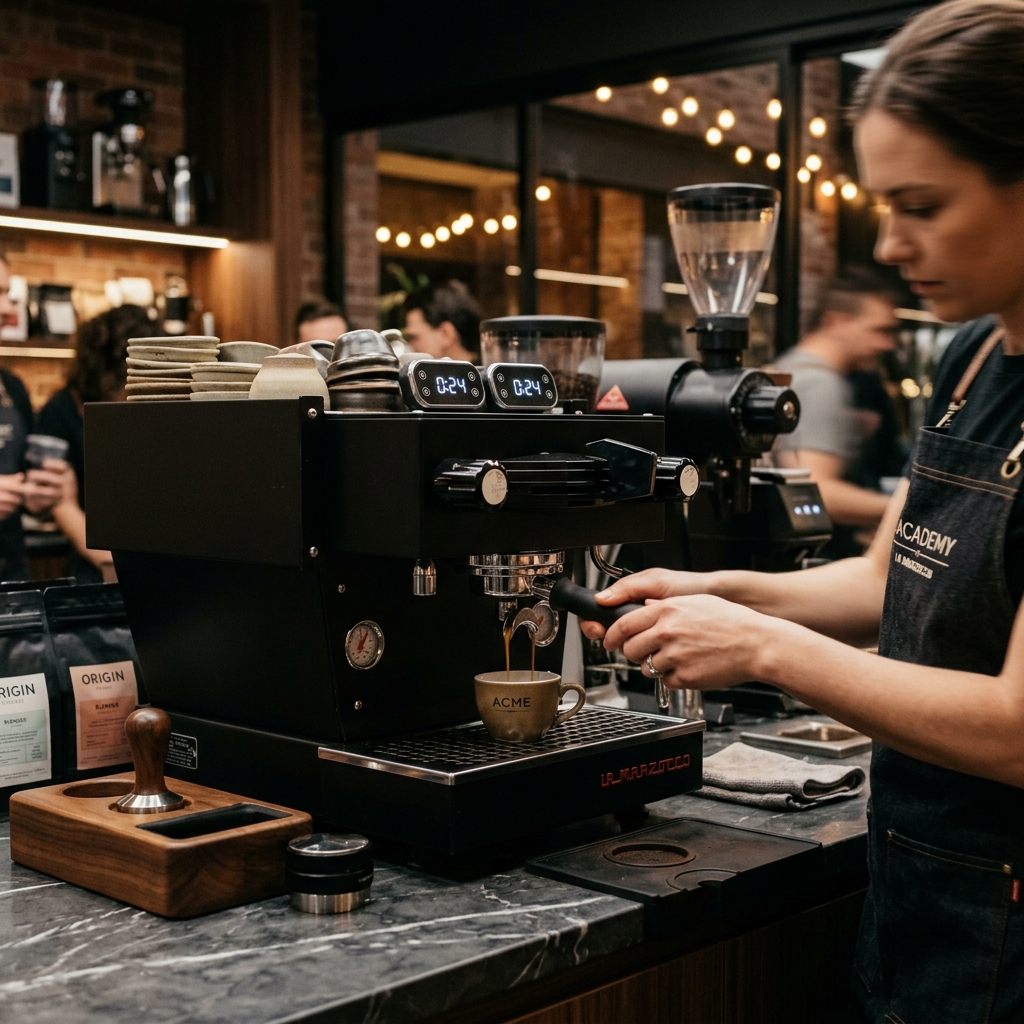
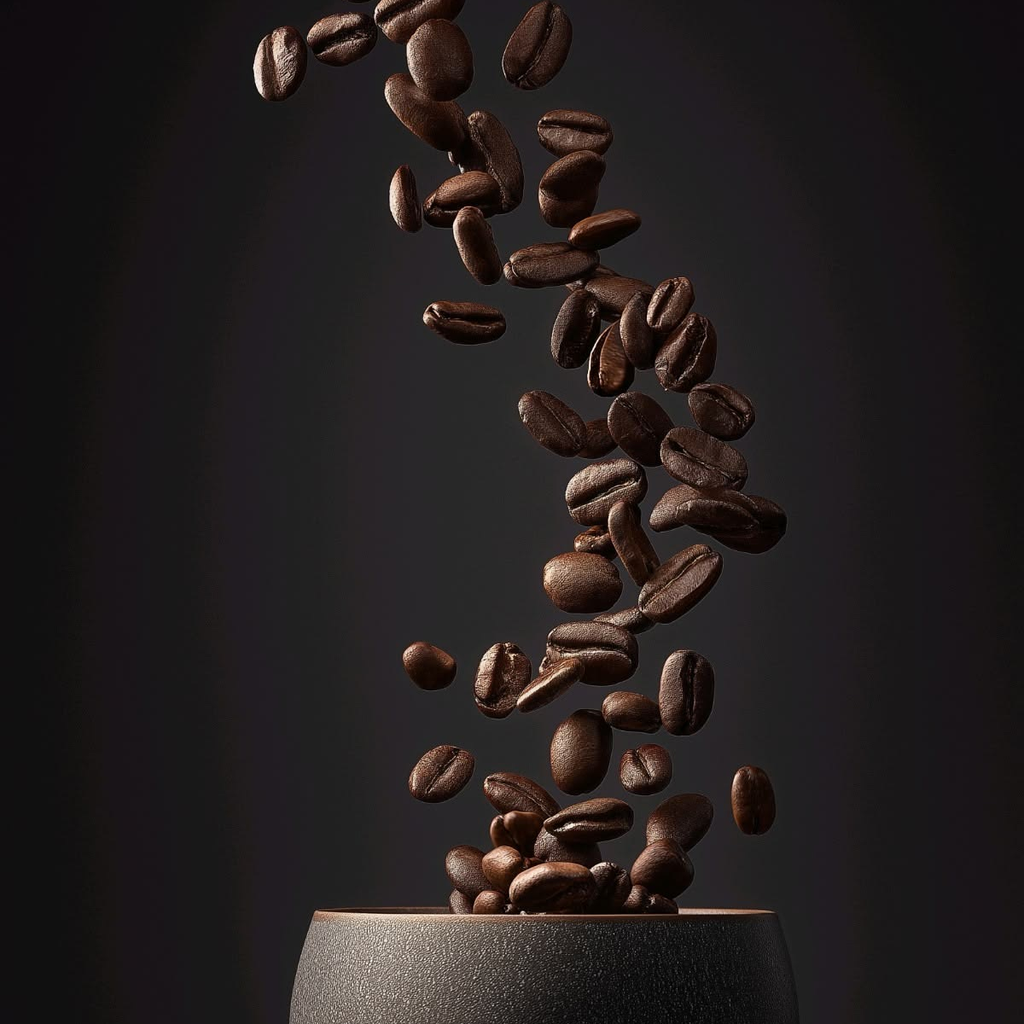
design: cambiar ruta de imagen de taller barista a v4 para evitar cache de navegador

diff --git a/src/app/academia/page.tsx b/src/app/academia/page.tsx
@@ -88,7 +88,7 @@ export default function AcademiaPage() {
             <div className={styles.imageCol}>
               <div className={styles.imageWrap}>
                 <Image
-                  src="/images/academy_instalaciones_v3.png"
+                  src="/images/academy_instalaciones_v4.png"
                   alt="Estación de Barista con La Marzocco Linea PB"
                   fill
                   sizes="(max-width: 900px) 100vw, 500px"